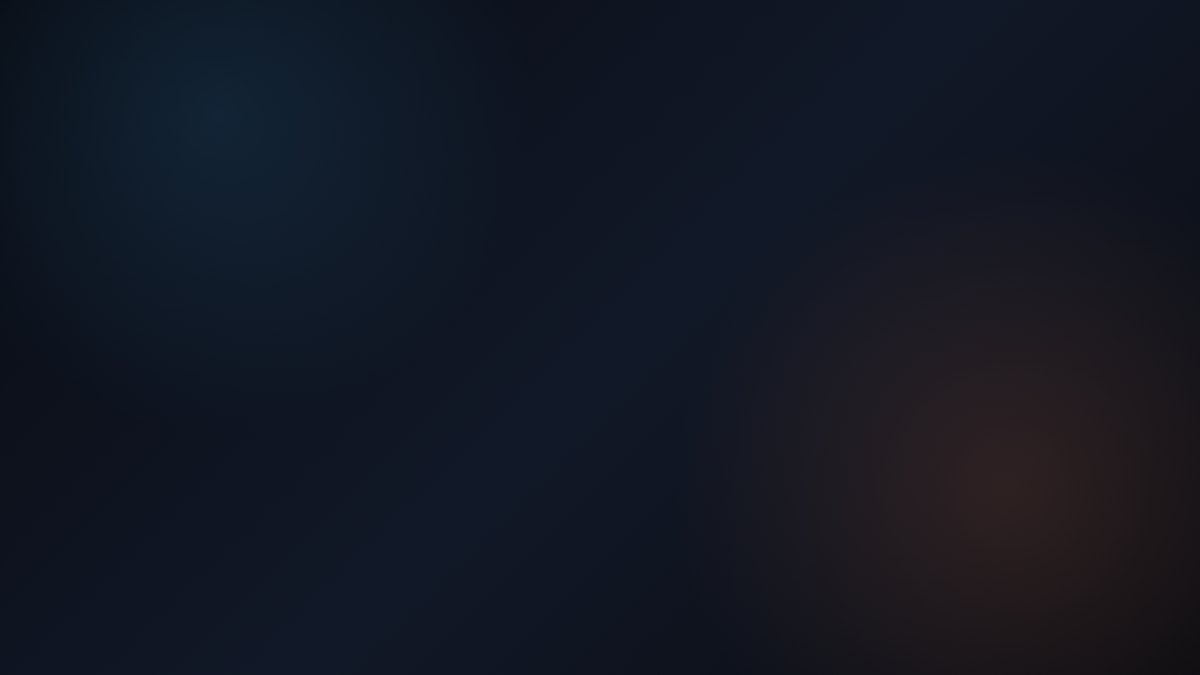
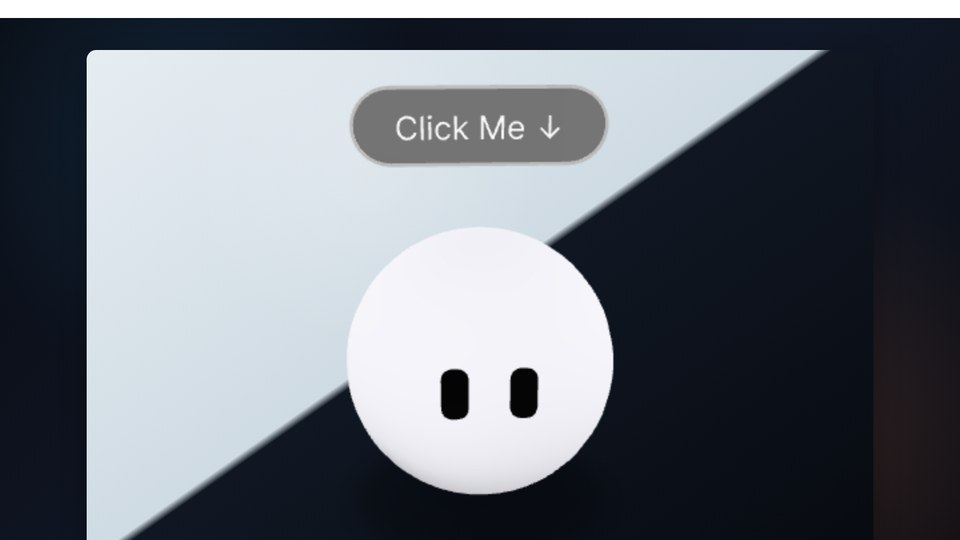
fix(site): refine 3D demo gallery

diff --git a/animation-ai-data-model.html b/animation-ai-data-model.html
@@ -4,7 +4,11 @@ title: AI Data Model
 navbar_title: 3D Demo
 permalink: /animation/ai-data-model/
 container_class: container-fluid px-0
-spline_scene: /assets/spline/ai-data-model/scene.splinecode
+model_src: /assets/models/ai-data-model/ai-data-model.glb
+model_camera_orbit: 20deg 70deg 3.2m
+model_camera_target: 0m 0.2m 0m
+model_field_of_view: 30deg
+model_exposure: 1.15
 ---
 
-{% include spline_demo.html label="Interactive AI data model animation" %}
+{% include model_demo.html label="Interactive AI data model" %}

diff --git a/animation-ai.html b/animation-ai.html
@@ -1,10 +1,10 @@
 ---
 layout: default
-title: AI
+title: Stars ✨
 navbar_title: 3D Demo
 permalink: /animation/ai/
 container_class: container-fluid px-0
 spline_scene: /assets/spline/ai/scene.splinecode
 ---
 
-{% include spline_demo.html label="Interactive AI animation" %}
+{% include spline_demo.html label="Interactive 3D stars animation" %}